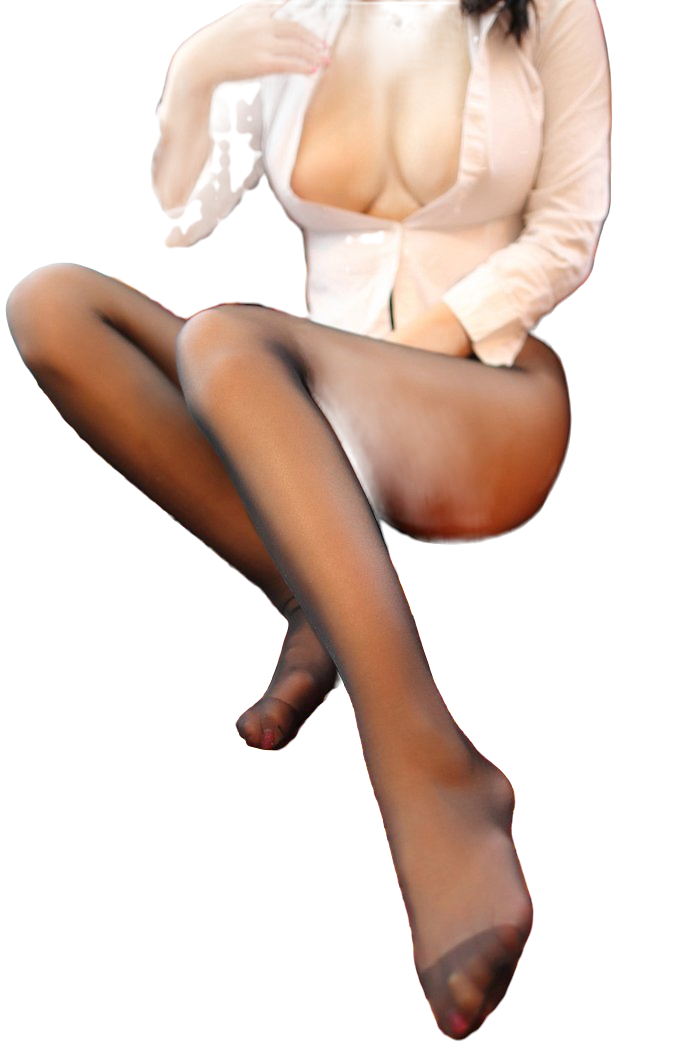
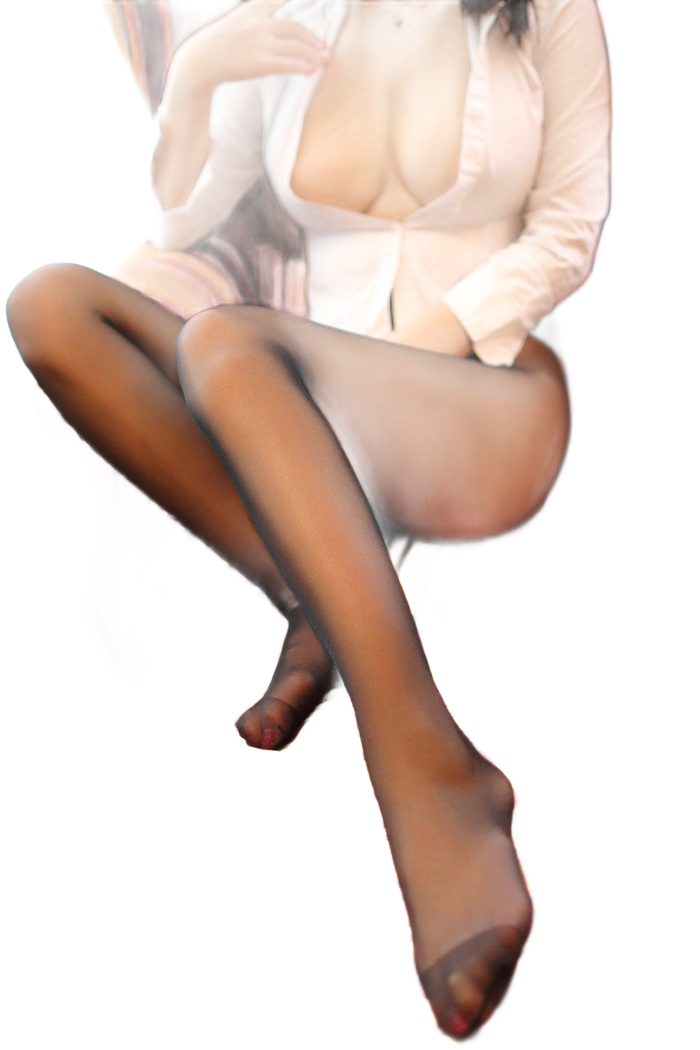
w167-3 资产重制(正确原图下载+量化bins) + YOLO conf=0.1 家具检测 + demo 阵容更新

diff --git a/cutout-assets.py b/cutout-assets.py
@@ -1,5 +1,8 @@
-# cutout-assets.py — 双层合成资产: 人物 RGBA 抠图(全分辨率软边) + LaMa 背景 + 层深参数
-# 用法: python cutout-assets.py <stem>...  （需 .jpg/.depth.png/.matte-person.png；.bgfill.png 自动生成）
+# cutout-assets.py v3 — 语义实例分层资产
+# 人物 = isnet 软 matte 完整保留(含头/白衬衫) − 检测到的家具实例(SAM2 box-prompt 精确减除)
+# 家具 = YOLO 检测 chair(56)/couch(57)/dining table(60) → 每框 SAM2 box-prompt
+# 背景层 = LaMa 补全(人物+家具整体移除)
+# 用法: python cutout-assets.py <stem>...
 import os
 import sys
 import json
@@ -8,58 +11,71 @@ REPO = os.path.dirname(os.path.abspath(__file__))
 DEMO = os.path.join(REPO, 'depth-component', 'demo', 'img')
 
 def main(stems):
-    from rembg import remove, new_session
+    from ultralytics import YOLO, SAM
     from simple_lama_inpainting import SimpleLama
     from PIL import Image, ImageFilter
     import numpy as np
+    from rembg import remove, new_session
 
-    session = new_session('isnet-general-use')
+    yolo = YOLO('yolo11n.pt')
+    sam = SAM('sam2.1_s.pt')
     lama = SimpleLama()
+    isnet_session = new_session('isnet-general-use')
 
     for stem in stems:
         print(f'[{stem}]', flush=True)
         img = Image.open(os.path.join(DEMO, stem + '.jpg')).convert('RGB')
         W, H = img.size
 
-        # ① 软 matte（isnet, 0..1 连续）— 不二值化
-        soft = remove(img, session=session, only_mask=True)
-        soft = np.asarray(soft.resize((W, H), Image.LANCZOS)).astype(np.float32) / 255.0
+        # ① 软 matte（isnet, 连续 0..1, 含头/白衬衫——完整人物）
+        soft = np.asarray(remove(img, session=isnet_session, only_mask=True).resize((W, H), Image.LANCZOS)).astype(np.float32) / 255.0
 
-        # ② 人物实例硬 mask（SAM2 box-prompt, 排除凳子/椅子）→ 羽化后作 alpha 上限
-        pref_p = os.path.join(DEMO, stem + '.matte-person.png')
-        if os.path.exists(pref_p):
-            pref = np.asarray(Image.open(pref_p).convert('L').resize((W, H), Image.LANCZOS)).astype(np.float32) / 255.0
-            pref_f = np.asarray(Image.fromarray((pref * 255).astype(np.uint8)).filter(ImageFilter.GaussianBlur(3))).astype(np.float32) / 255.0
-            alpha = soft * np.clip(pref_f * 3.0, 0, 1)  # 实例外(凳子)的软 matte 压到 0
-        else:
-            alpha = soft
-        # alpha 曲线: 收紧半透明边缘, 去白边 halo
-        alpha = np.clip((alpha - 0.12) / 0.55, 0, 1)
+        # ② YOLO 只检测家具: chair=56, couch=57, dining table=60
+        det = yolo(img, classes=[56, 57, 60], conf=0.1, iou=0.3, agnostic_nms=False, max_det=20, verbose=False)[0]
+        boxes = det.boxes.xyxy.cpu().numpy().tolist() if det.boxes is not None else []
+        print(f'  家具检测: {len(boxes)} 个')
 
-        # ③ RGBA 抠图
+        # ③ 家具框 → SAM2 box-prompt → 家具实例 mask
+        furn_m = np.zeros((H, W), dtype=np.float32)
+        for pb in boxes:
+            mi = np.zeros((H, W), dtype=np.float32)
+            res = sam(img, bboxes=[pb], verbose=False)
+            if not (res and res[0].masks is not None):
+                continue
+            for m in res[0].masks.data.cpu().numpy():
+                mi = np.maximum(mi, np.asarray(Image.fromarray((m * 255).astype(np.uint8)).resize((W, H), Image.LANCZOS)).astype(np.float32) / 255.0)
+            furn_m = np.maximum(furn_m, mi)
+
+        # ④ 人物 alpha = soft − 家具实例羽化（人物完整保留, 家具精确剥离）
+        def feather(m, blur=4):
+            return np.asarray(Image.fromarray((m * 255).astype(np.uint8)).filter(ImageFilter.GaussianBlur(blur))).astype(np.float32) / 255.0
+        fu_f = feather(furn_m, 3)
+        alpha = np.clip(soft - fu_f * 0.9, 0, 1)
+
+        # ⑤ RGBA 抠图
         rgba = np.dstack([np.asarray(img), (alpha * 255).astype(np.uint8)])
         Image.fromarray(rgba, 'RGBA').save(os.path.join(DEMO, stem + '.cutout.png'))
 
-        # ④ 背景层: LaMa（mask=人物实例硬 mask 外扩——人物+直接接触物整体移除, 露出补全背景）
-        if not os.path.exists(os.path.join(DEMO, stem + '.bgfill.png')):
-            hard = (pref > 0.35).astype(np.uint8) * 255 if os.path.exists(pref_p) else (alpha > 0.4).astype(np.uint8) * 255
-            hm = Image.fromarray(hard).filter(ImageFilter.MaxFilter(13)).filter(ImageFilter.GaussianBlur(6))
-            bg = lama(img, hm).resize(img.size, Image.LANCZOS)
-            bg.save(os.path.join(DEMO, stem + '.bgfill.png'))
+        # ⑥ 背景层 = LaMa(人物 ∪ 家具 整体移除)
+        mask_all = np.clip((soft > 0.35).astype(np.float32) + furn_m, 0, 1)
+        mask_img = Image.fromarray((np.asarray(Image.fromarray((mask_all * 255).astype(np.uint8)).filter(ImageFilter.MaxFilter(13))).astype(np.float32) / 255.0 * 255).astype(np.uint8))
+        bg = lama(img, mask_img).resize(img.size, Image.LANCZOS)
+        bg.save(os.path.join(DEMO, stem + '.bgfill.png'))
 
-        # ⑤ 层深: 人物带中位深度 / 背景带中位深度（深度 png: 1=近）
+        # ⑦ 层深
         dp = os.path.join(DEMO, stem + '.depth.png')
         depth = np.asarray(Image.open(dp).convert('L')).astype(np.float32) / 255.0
-        pm = pref > 0.35 if os.path.exists(pref_p) else alpha > 0.5
-        d_person = np.median(depth[pm]) if pm.any() else 0.8
-        d_bg = np.median(depth[~pm]) if (~pm).any() else 0.3
+        pmask = alpha > 0.5
+        d_person = float(np.median(depth[pmask])) if pmask.any() else 0.8
+        bgm = (furn_m > 0.35) | (alpha < 0.4)
+        d_bg = float(np.median(depth[bgm])) if bgm.any() else 0.3
         zN, zF = 1.2, 2.6
         person_z = float(zF - d_person * (zF - zN))
         bg_z = float(max(person_z + 0.7, zF - d_bg * (zF - zN)))
         json.dump(dict(W=W, H=H, personZ=round(person_z, 3), bgZ=round(bg_z, 3),
-                       f=round((H / 2) / 0.5, 1)),  # f=焦距(像素, 按竖图半高 0.5 归一)
+                       f=round((H / 2) / 0.5, 1)),
                   open(os.path.join(DEMO, stem + '.layers.json'), 'w'))
-        print(f'  ✔ cutoutRGBA + bgfill + layers: personZ={person_z:.2f} bgZ={bg_z:.2f}')
+        print(f'  ✔ personZ={person_z:.2f} bgZ={bg_z:.2f} 人物区{int((alpha > 0.5).sum() / (W * H) * 100)}%')
 
 if __name__ == '__main__':
     main(sys.argv[1:] or ['w167-2', 'w167-3'])
